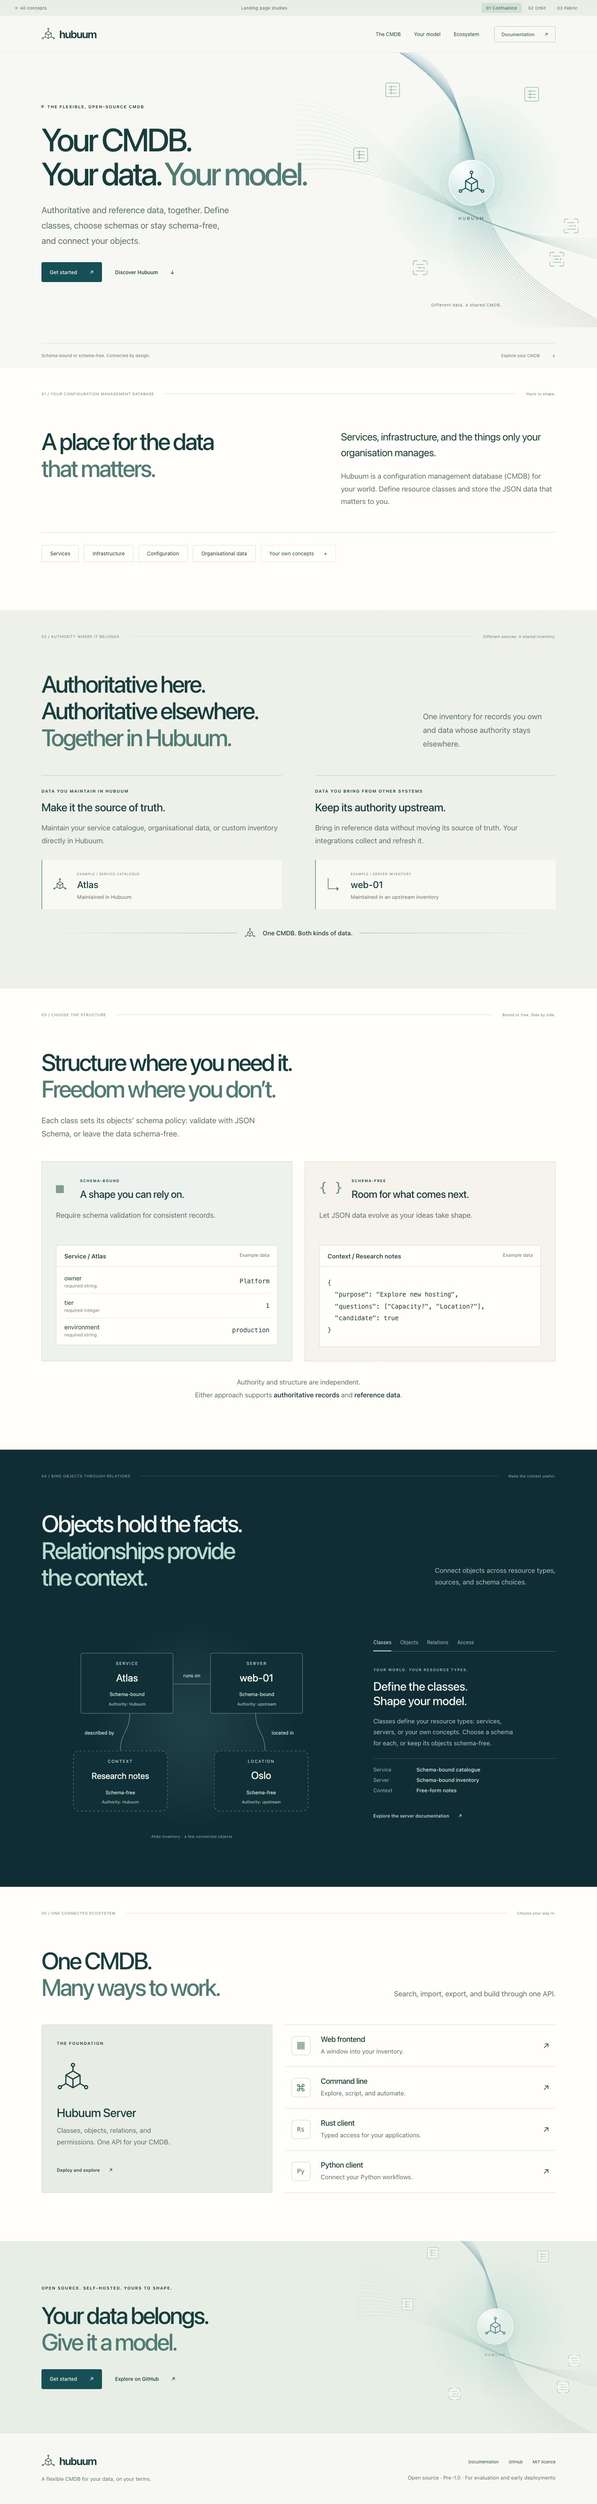
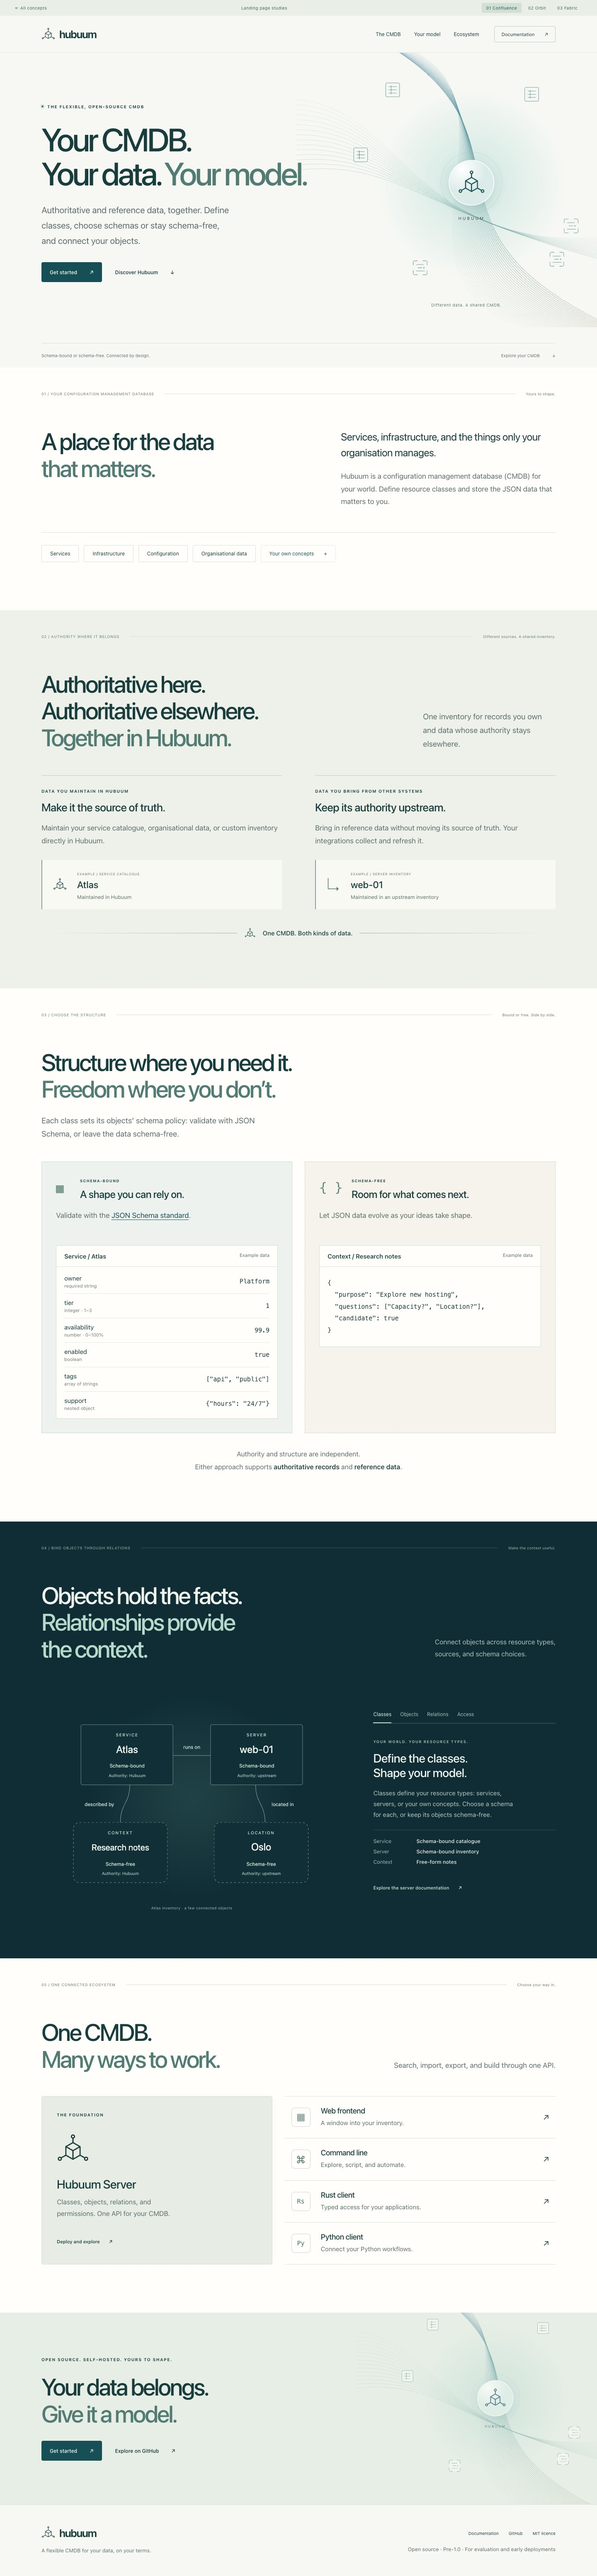
docs: show JSON Schema types in landing examples

diff --git a/design/confluence.html b/design/confluence.html
@@ -69,7 +69,7 @@
         <div class="section-label"><span>03 / Choose the structure</span><span class="section-rule"></span><span>Bound or free. Side by side.</span></div>
         <div class="structure-heading"><h2>Structure where you need it.<br><em>Freedom where you don’t.</em></h2><p>Each class sets its objects’ schema policy: validate with JSON Schema, or leave the data schema-free.</p></div>
         <div class="schema-grid">
-          <article class="schema-card schema-bound"><div class="schema-card-heading"><span class="schema-glyph" aria-hidden="true">▦</span><div><span class="eyebrow">Schema-bound</span><h3>A shape you can rely on.</h3></div></div><p>Require schema validation for consistent records.</p><div class="record-example"><div class="record-title"><strong>Service / Atlas</strong><span>Example data</span></div><dl><div><dt>owner <span>required string</span></dt><dd>Platform</dd></div><div><dt>tier <span>required integer</span></dt><dd>1</dd></div><div><dt>environment <span>required string</span></dt><dd>production</dd></div></dl></div></article>
+          <article class="schema-card schema-bound"><div class="schema-card-heading"><span class="schema-glyph" aria-hidden="true">▦</span><div><span class="eyebrow">Schema-bound</span><h3>A shape you can rely on.</h3></div></div><p>Validate with the <a href="https://json-schema.org/specification">JSON Schema standard</a>.</p><div class="record-example"><div class="record-title"><strong>Service / Atlas</strong><span>Example data</span></div><dl><div><dt>owner <span>required string</span></dt><dd>Platform</dd></div><div><dt>tier <span>integer · 1–3</span></dt><dd>1</dd></div><div><dt>availability <span>number · 0–100%</span></dt><dd>99.9</dd></div><div><dt>enabled <span>boolean</span></dt><dd>true</dd></div><div><dt>tags <span>array of strings</span></dt><dd>["api", "public"]</dd></div><div><dt>support <span>nested object</span></dt><dd>{"hours": "24/7"}</dd></div></dl></div></article>
           <article class="schema-card schema-free"><div class="schema-card-heading"><span class="schema-glyph" aria-hidden="true">{ }</span><div><span class="eyebrow">Schema-free</span><h3>Room for what comes next.</h3></div></div><p>Let JSON data evolve as your ideas take shape.</p><div class="record-example"><div class="record-title"><strong>Context / Research notes</strong><span>Example data</span></div><pre><code>{
   "purpose": "Explore new hosting",
   "questions": ["Capacity?", "Location?"],

diff --git a/design/fabric.html b/design/fabric.html
@@ -69,7 +69,7 @@
         <div class="section-label"><span>03 / Choose the structure</span><span class="section-rule"></span><span>Bound or free. Side by side.</span></div>
         <div class="structure-heading"><h2>Structure where you need it.<br><em>Freedom where you don’t.</em></h2><p>Each class sets its objects’ schema policy: validate with JSON Schema, or leave the data schema-free.</p></div>
         <div class="schema-grid">
-          <article class="schema-card schema-bound"><div class="schema-card-heading"><span class="schema-glyph" aria-hidden="true">▦</span><div><span class="eyebrow">Schema-bound</span><h3>A shape you can rely on.</h3></div></div><p>Require schema validation for consistent records.</p><div class="record-example"><div class="record-title"><strong>Service / Atlas</strong><span>Example data</span></div><dl><div><dt>owner <span>required string</span></dt><dd>Platform</dd></div><div><dt>tier <span>required integer</span></dt><dd>1</dd></div><div><dt>environment <span>required string</span></dt><dd>production</dd></div></dl></div></article>
+          <article class="schema-card schema-bound"><div class="schema-card-heading"><span class="schema-glyph" aria-hidden="true">▦</span><div><span class="eyebrow">Schema-bound</span><h3>A shape you can rely on.</h3></div></div><p>Validate with the <a href="https://json-schema.org/specification">JSON Schema standard</a>.</p><div class="record-example"><div class="record-title"><strong>Service / Atlas</strong><span>Example data</span></div><dl><div><dt>owner <span>required string</span></dt><dd>Platform</dd></div><div><dt>tier <span>integer · 1–3</span></dt><dd>1</dd></div><div><dt>availability <span>number · 0–100%</span></dt><dd>99.9</dd></div><div><dt>enabled <span>boolean</span></dt><dd>true</dd></div><div><dt>tags <span>array of strings</span></dt><dd>["api", "public"]</dd></div><div><dt>support <span>nested object</span></dt><dd>{"hours": "24/7"}</dd></div></dl></div></article>
           <article class="schema-card schema-free"><div class="schema-card-heading"><span class="schema-glyph" aria-hidden="true">{ }</span><div><span class="eyebrow">Schema-free</span><h3>Room for what comes next.</h3></div></div><p>Let JSON data evolve as your ideas take shape.</p><div class="record-example"><div class="record-title"><strong>Context / Research notes</strong><span>Example data</span></div><pre><code>{
   "purpose": "Explore new hosting",
   "questions": ["Capacity?", "Location?"],

diff --git a/design/orbit.html b/design/orbit.html
@@ -69,7 +69,7 @@
         <div class="section-label"><span>03 / Choose the structure</span><span class="section-rule"></span><span>Bound or free. Side by side.</span></div>
         <div class="structure-heading"><h2>Structure where you need it.<br><em>Freedom where you don’t.</em></h2><p>Each class sets its objects’ schema policy: validate with JSON Schema, or leave the data schema-free.</p></div>
         <div class="schema-grid">
-          <article class="schema-card schema-bound"><div class="schema-card-heading"><span class="schema-glyph" aria-hidden="true">▦</span><div><span class="eyebrow">Schema-bound</span><h3>A shape you can rely on.</h3></div></div><p>Require schema validation for consistent records.</p><div class="record-example"><div class="record-title"><strong>Service / Atlas</strong><span>Example data</span></div><dl><div><dt>owner <span>required string</span></dt><dd>Platform</dd></div><div><dt>tier <span>required integer</span></dt><dd>1</dd></div><div><dt>environment <span>required string</span></dt><dd>production</dd></div></dl></div></article>
+          <article class="schema-card schema-bound"><div class="schema-card-heading"><span class="schema-glyph" aria-hidden="true">▦</span><div><span class="eyebrow">Schema-bound</span><h3>A shape you can rely on.</h3></div></div><p>Validate with the <a href="https://json-schema.org/specification">JSON Schema standard</a>.</p><div class="record-example"><div class="record-title"><strong>Service / Atlas</strong><span>Example data</span></div><dl><div><dt>owner <span>required string</span></dt><dd>Platform</dd></div><div><dt>tier <span>integer · 1–3</span></dt><dd>1</dd></div><div><dt>availability <span>number · 0–100%</span></dt><dd>99.9</dd></div><div><dt>enabled <span>boolean</span></dt><dd>true</dd></div><div><dt>tags <span>array of strings</span></dt><dd>["api", "public"]</dd></div><div><dt>support <span>nested object</span></dt><dd>{"hours": "24/7"}</dd></div></dl></div></article>
           <article class="schema-card schema-free"><div class="schema-card-heading"><span class="schema-glyph" aria-hidden="true">{ }</span><div><span class="eyebrow">Schema-free</span><h3>Room for what comes next.</h3></div></div><p>Let JSON data evolve as your ideas take shape.</p><div class="record-example"><div class="record-title"><strong>Context / Research notes</strong><span>Example data</span></div><pre><code>{
   "purpose": "Explore new hosting",
   "questions": ["Capacity?", "Location?"],

diff --git a/design/assets/site.css b/design/assets/site.css
@@ -116,6 +116,7 @@ h1 { font-size: clamp(3.4rem, 5.4vw, 5.2rem); line-height: 1.055; }
 .schema-card-heading .eyebrow { font-size: 9px; }
 .schema-card h3 { font-size: 25px; margin-top: 9px; }
 .schema-card > p { margin-top: 22px; font-size: calc(14px * var(--body-text-scale)); color: var(--muted); min-height: 3.5em; }
+.schema-card > p a { color: var(--accent); text-decoration: underline; text-underline-offset: .2em; }
 .record-example { margin-top: 26px; background: #fffefb; border: 1px solid #d4ddd3; min-height: 241px; }
 .record-title { display: flex; justify-content: space-between; flex-wrap: wrap; gap: 8px; border-bottom: 1px solid #dae2d8; padding: 16px 19px; }
 .record-title strong { font-size: calc(12px * var(--body-text-scale)); font-weight: 550; }
@@ -125,7 +126,7 @@ h1 { font-size: clamp(3.4rem, 5.4vw, 5.2rem); line-height: 1.055; }
 .record-example dl > div:last-child { border: 0; }
 .record-example dt { font-size: calc(12px * var(--body-text-scale)); }
 .record-example dt span { display: block; font-size: calc(9px * var(--body-text-scale)); color: #6d7c70; margin-top: 3px; }
-.record-example dd { margin: 0; font-family: ui-monospace, monospace; font-size: calc(12px * var(--body-text-scale)); }
+.record-example dd { margin: 0; min-width: 0; max-width: 58%; overflow-wrap: anywhere; text-align: right; font-family: ui-monospace, monospace; font-size: calc(12px * var(--body-text-scale)); }
 .record-example pre { margin: 0; padding: 25px 19px; white-space: pre-wrap; overflow-wrap: anywhere; line-height: 1.9; font-size: calc(12px * var(--body-text-scale)); }
 .record-example code { font-family: ui-monospace, monospace; }
 .schema-common { text-align: center; font-size: calc(13px * var(--body-text-scale)); line-height: 1.9; margin-top: 35px; color: var(--muted); }

diff --git a/design/README.md b/design/README.md
@@ -43,6 +43,9 @@ introduces the kinds of data you can manage, authoritative records and upstream
 reference data, schema-bound and schema-free classes, relations, and the ecosystem.
 Authority and structure are independent choices: both schema approaches can hold
 either kind of data. The example model illustrates all four combinations.
+The schema-bound Atlas card demonstrates strings, integers, decimal numbers,
+booleans, arrays, and nested objects from the shared corpus, with a link to the
+[JSON Schema specification](https://json-schema.org/specification).
 The Classes / Objects / Relations / Access controls work with a mouse, touch, or arrow keys.
 Classes define resource types and their schema policy; objects are instances of
 those classes, with their own JSON data.
